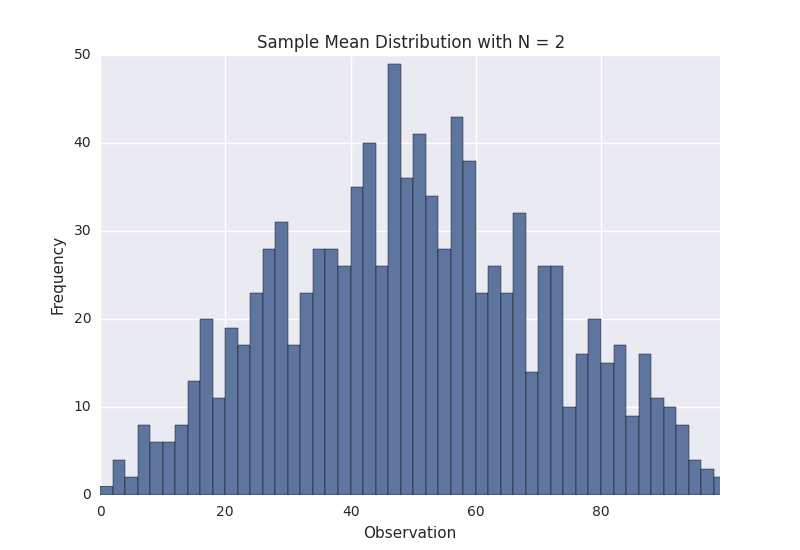
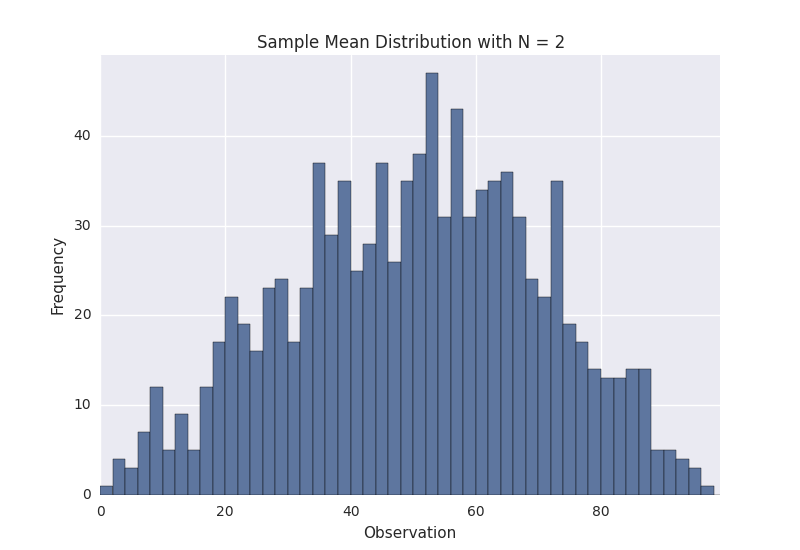
updated images

diff --git a/central_limit_theorem_demo.py b/central_limit_theorem_demo.py
@@ -29,12 +29,13 @@ def plot_distribution(distribution, title = None, bin_min = None, bin_max = None
     if num_bins != None:
         bin_size = (bin_max - bin_min) / num_bins
         manual_bins = range(bin_min, bin_max + bin_size, bin_size)
-        plt.hist(distribution, bins = manual_bins)
+        [n, bins, patches] = plt.hist(distribution, bins = manual_bins)
     else:
-        plt.hist(distribution)
+        [n, bins, patches] = plt.hist(distribution)
     if title != None:
         plt.title(title)
     plt.xlim(bin_min, bin_max)
+    plt.ylim(0, max(n) + 2)
     plt.ylabel("Frequency")
     plt.xlabel("Observation")
     plt.show()
